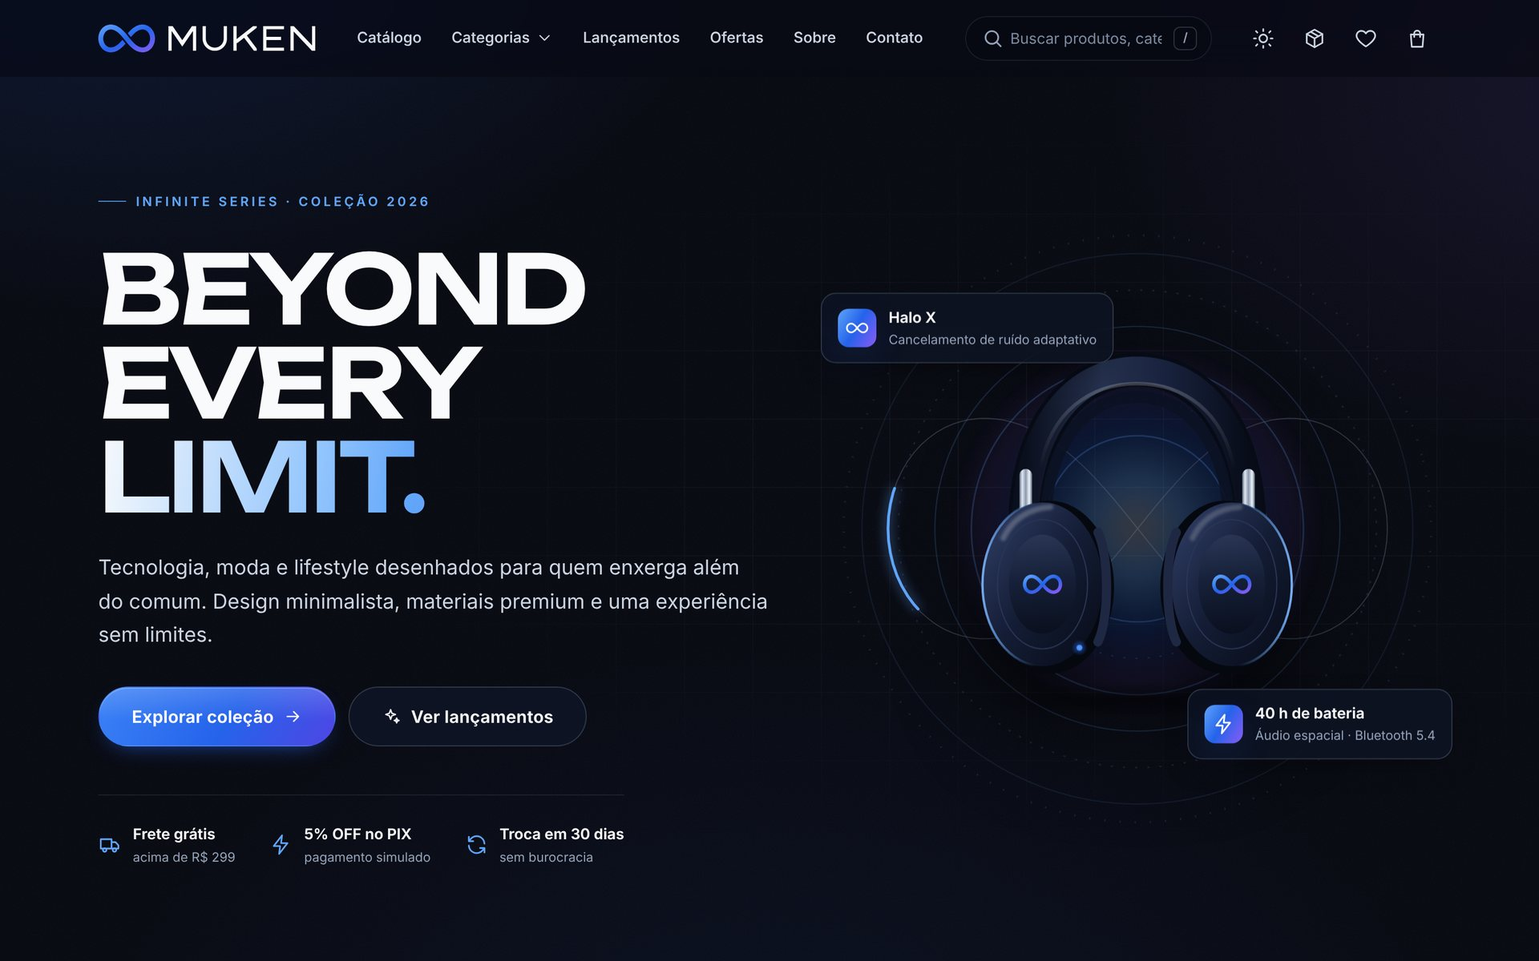
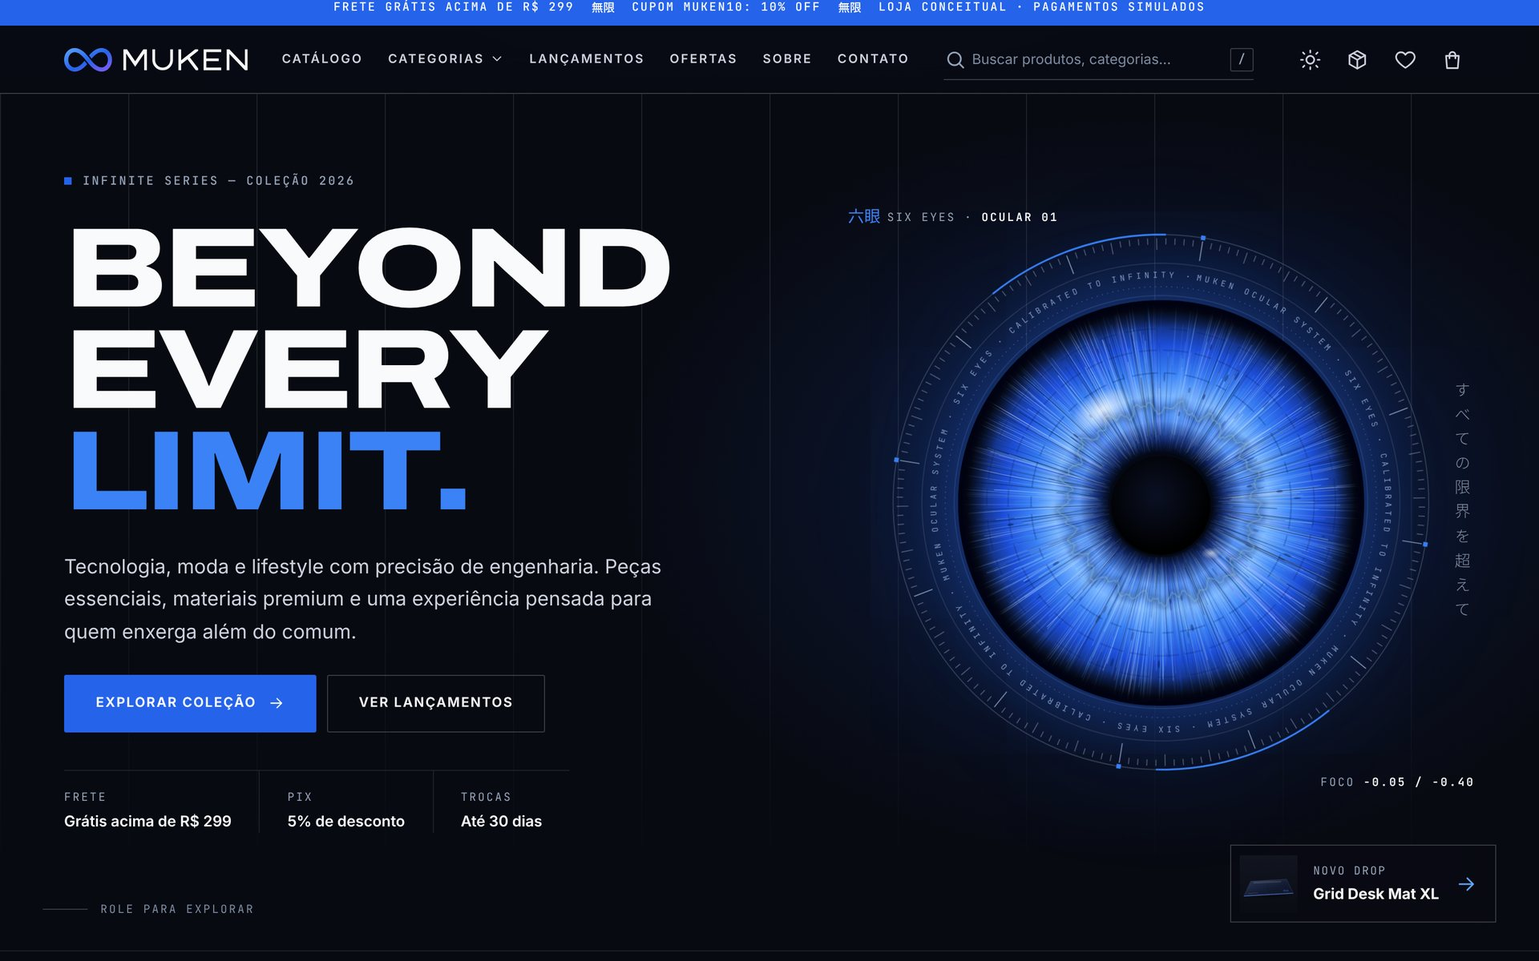
Update documentation after redesign
- Relatório: capa preenchida com os dados acadêmicos (CEUB, Engenharia
  de Software, Desenvolvimento de Interfaces), seção de design reescrita
  com a nova direção de arte, dificuldades reais do redesign, métricas
  medidas de novo, reflexão pessoal e datas de acesso das referências.
- Histórico de prompts: registros 14 (dados do relatório) e 15 (redesign).
- README: identidade visual atualizada e informações acadêmicas.
- Capturas de tela refeitas no novo visual, mais a promoção
  "Vazio Ilimitado".

Claude-Session: https://claude.ai/code/session_01JWsDhQumma8NqJHcDWpjRP

diff --git a/docs/historico-prompts.md b/docs/historico-prompts.md
@@ -2,7 +2,7 @@
 
 **Projeto:** MUKEN STORE — E-commerce conceitual
 **Ferramenta de IA:** Claude Code (agente de programação da Anthropic), executado em ambiente remoto na nuvem
-**Aluno:** João Pedro Ribeiro
+**Autoria:** João Pedro Ribeiro
 **Período:** novembro de 2026
 
 ---
@@ -13,7 +13,7 @@ O desenvolvimento seguiu um fluxo real de *Vibe Coding*: um **prompt mestre** (r
 
 Por isso, em cada registro abaixo, o campo **“Prompt completo”** reproduz o **trecho exato do prompt mestre** que orientou aquela etapa. Os campos “Resumo da resposta da IA”, “Aplicação prática” e “Adaptações realizadas” descrevem o que de fato foi produzido e as decisões e correções reais, que podem ser conferidas no código e no histórico de commits do repositório.
 
-Também estão registradas as interações adicionais reais que ocorreram durante o processo (registros 12 e 13). Prompts feitos depois desta versão devem ser acrescentados na seção [Prompts adicionais](#prompts-adicionais).
+Também estão registradas as interações adicionais reais que ocorreram durante o processo (registros 12 a 15). Prompts feitos depois desta versão devem ser acrescentados na seção [Prompts adicionais](#prompts-adicionais).
 
 | # | Etapa | Commit relacionado |
 | --- | --- | --- |
@@ -30,6 +30,8 @@ Também estão registradas as interações adicionais reais que ocorreram durant
 | 11 | Documentação e publicação | `Create project documentation` / `Final adjustments and deployment` |
 | 12 | Interação: “por que parou?” | — |
 | 13 | Publicação no GitHub Pages | `Update documentation after deployment` |
+| 14 | Dados do relatório | `Update documentation after redesign` |
+| 15 | Redesign da interface | `Redesign interface with Six Eyes hero and editorial grid` |
 
 ---
 
@@ -53,7 +55,7 @@ Também estão registradas as interações adicionais reais que ocorreram durant
 - Arquitetura **SPA com roteador por hash** (`#/catalogo`, `#/produto/ID`): funciona no GitHub Pages sem configuração de servidor e mantém o `index.html` como único documento, como pede a estrutura.
 - Scripts clássicos com `defer` e um namespace global (`MK`), em vez de ES Modules, para que a loja funcione **também ao abrir o `index.html` direto do disco** (`file://`), onde módulos são bloqueados pelo navegador.
 - Além dos arquivos exigidos, foram criados `utils.js`, `ui.js`, `orders.js` e `pages.js` para não concentrar lógica demais em um só arquivo, além de `404.html` (exigido pelo GitHub Pages) e `assets/fonts/`.
-- A tentativa de criar o repositório remoto pela ferramenta de linha de comando foi **recusada pelo ambiente** (a sessão só tem acesso a repositórios já existentes). O repositório vazio precisa ser criado pelo aluno no GitHub.
+- A tentativa de criar o repositório remoto pela ferramenta de linha de comando foi **recusada pelo ambiente** (a sessão só tem acesso a repositórios já existentes). O repositório vazio precisou ser criado manualmente, pela própria conta no GitHub.
 
 ---
 
@@ -267,8 +269,8 @@ Também estão registradas as interações adicionais reais que ocorreram durant
 **Aplicação prática:** `README.md`, `docs/`; commits `Create project documentation` e `Final adjustments and deployment`.
 
 **Adaptações realizadas:**
-- Informações que dependem do aluno (instituição, curso, disciplina, professor, reflexões pessoais) ficaram marcadas como **[preencher]** no relatório.
-- A publicação exigiu ações do aluno no GitHub, pois o ambiente do agente não tem permissão para criar repositórios novos (ver registro 13).
+- Informações pessoais e acadêmicas (instituição, curso, disciplina, docente, reflexões pessoais) ficaram marcadas como **[preencher]** no relatório nesta etapa e foram preenchidas depois (registro 14).
+- A publicação exigiu ações manuais no GitHub, pela própria conta, pois o ambiente do agente não tem permissão para criar repositórios novos (ver registro 13).
 
 ---
 
@@ -292,7 +294,7 @@ Também estão registradas as interações adicionais reais que ocorreram durant
 
 **Objetivo:** colocar a loja no ar no GitHub Pages e verificar o funcionamento após a publicação.
 
-**Prompts completos (sequência real de mensagens do aluno):**
+**Prompts completos (sequência real de mensagens enviadas ao agente):**
 
 > criei o repositorio
 
@@ -309,7 +311,7 @@ Também estão registradas as interações adicionais reais que ocorreram durant
 **Resumo da resposta da IA:**
 - Com o repositório criado, o agente o conectou à sessão, mas o envio foi recusado (HTTP 403): o aplicativo do Claude no GitHub não tinha permissão para esse repositório. O agente explicou como liberar o acesso ou enviar pelo próprio computador.
 - Diante do erro do GitHub Desktop, explicou que “Publish repository” tenta criar um repositório novo e orientou a configurar o endereço remoto em *Repository settings → Remote*.
-- Como o domínio `github.io` estava bloqueado na rede do ambiente, propôs (e o aluno aprovou) um ambiente com acesso apenas a `jpribeiro011.github.io` e `viacep.com.br`.
+- Como o domínio `github.io` estava bloqueado na rede do ambiente, propôs (e a proposta foi aprovada) um ambiente com acesso apenas a `jpribeiro011.github.io` e `viacep.com.br`.
 - Diante do 404, inspecionou o repositório remoto. Os arquivos tinham sido enviados pelo upload do site do GitHub dentro de uma subpasta `muken-store/`: o `index.html` não estava na raiz e o histórico organizado tinha sido trocado por 3 commits genéricos. A loja funcionava em `/muken-store/muken-store/`.
 - Com a autorização (“pode substituir”) e a permissão do aplicativo concedida (“pronto”), substituiu o conteúdo pelo histórico original usando `git push --force-with-lease`, que só sobrescreve se o remoto ainda estiver no estado inspecionado. O site entrou no ar em cerca de 1,5 minuto.
 - Por fim, executou a suíte de testes **contra o site publicado: 47 de 47 aprovados**. Também conferiu os tipos dos arquivos servidos e a página 404 personalizada.
@@ -317,14 +319,78 @@ Também estão registradas as interações adicionais reais que ocorreram durant
 **Aplicação prática:** repositório `JpRibeiro011/muken-store` com os commits organizados; site em https://jpribeiro011.github.io/muken-store/; suíte de testes com a opção `MUKEN_URL` para testar o site publicado.
 
 **Adaptações realizadas:**
-- O envio que substituiu o conteúdo do repositório só foi feito após autorização explícita do aluno, e de forma condicionada ao estado inspecionado.
+- O envio que substituiu o conteúdo do repositório só foi feito após autorização explícita, e de forma condicionada ao estado inspecionado.
 - O relatório (seção 11) registra essas dificuldades de publicação. Os repositórios extras criados nas tentativas (`muken` e `muken-store-1`) não foram alterados pelo agente.
+
+---
+
+## 14. Dados do relatório
+
+**Objetivo:** saber o que o relatório técnico pede e preenchê-lo com os dados acadêmicos.
+
+**Prompts completos (sequência real de mensagens):**
+
+> preenche o relatorio com os meus dados, e qual é o relatorio? quais são as informaçoes que pede
+
+```text
+Instituição de ensino:  Centro Universitário de Brasília (CEUB)
+Curso: Engenharia de Software
+Disciplina: Desenvolvimento de Interfaces - Turma B - 0726 - Asa Norte - Noturno
+Professor(a): Adriana
+Cidade: Brasilia
+Data de entrega: 25/11/2026      as reflexões voce pode fazer do jeito que achar melhor, mais lembrando que tem que ser do jeito que eu falo, mais humanizado
+```
+
+**Resumo da resposta da IA:**
+- Explicou que o relatório é o arquivo `docs/relatorio.md` (item 11 do enunciado), com as 16 seções exigidas já escritas, faltando só os campos que dependiam de informações pessoais.
+- Listou o que faltava (instituição, curso, disciplina, docente, cidade, data de entrega, reflexão pessoal e, opcionalmente, dificuldades próprias) e perguntou sobre as datas de acesso das referências e sobre algum modelo de documento da disciplina.
+- Com os dados recebidos, preencheu a capa do relatório e a tabela acadêmica do README.
+- Escreveu a reflexão pessoal (seção 14) e o parágrafo “Do meu lado” (seção 11) em primeira pessoa e em tom de conversa, como pedido, a partir de fatos reais do processo: a pergunta “por que parou?”, os erros de publicação, a crítica ao visual genérico e o redesign.
+- O pedido de redesign (registro 15) chegou logo em seguida e interrompeu esta etapa, que foi concluída junto com a documentação do redesign.
+
+**Aplicação prática:** `docs/relatorio.md` (capa, seções 11, 14 e 15) e `README.md` (informações acadêmicas); commit `Update documentation after redesign`.
+
+**Adaptações realizadas:**
+- A pedido, a reflexão pessoal foi redigida pela IA com base nos acontecimentos reais do projeto, para ser revisada antes da entrega.
+- Como não houve resposta específica sobre as datas de acesso das referências, foi usada a data em que o relatório foi preenchido (7 de novembro de 2026).
+- O relatório e este histórico passaram a usar formas neutras (“autoria”, “docente”) nos trechos que antes indicavam campos a preencher.
+
+---
+
+## 15. Redesign: “achei ele muito genérico”
+
+**Objetivo:** deixar a interface com cara de produto profissional, menos genérica, mantendo a referência ao Satoru Gojo.
+
+**Prompts completos (sequência real de mensagens):**
+
+> quero que melhor o design tambem, achei ele muito generico, melhore ele para ficar melhor e mais com cara de profissional, mantendo a referencia ao satoro gojo
+
+> continue
+
+*(A mensagem “continue” foi enviada no dia seguinte, depois que a sessão atingiu o limite de uso da ferramenta.)*
+
+**Resumo da resposta da IA:**
+- **Diagnóstico:** apontou o que deixava o visual genérico: cantos arredondados, botões em pílula, degradês e brilhos em quase todo lugar, uma fonte de títulos arredondada (Unbounded) e um hero de “produto sobre anéis”, comum em templates.
+- **Direção:** propôs uma linguagem de luxo técnico com minimalismo editorial japonês, traduzindo a referência ao Gojo só em conceitos: Seis Olhos (六眼), Infinito (無限), Vazio Ilimitado (無量空処) e o azul (蒼).
+- **Sistema visual:** novas fontes hospedadas no projeto (Archivo Expanded, JetBrains Mono e um subconjunto de 11 KB da Noto Sans JP), tokens revistos, cantos de 2 px, grades de linhas finas, botões retangulares em caixa alta e selos e preços em fonte monoespaçada.
+- **Página inicial:** barra de avisos; hero com uma íris original gerada por código (SVG procedural) dentro de um anel técnico, que acompanha o cursor; seções numeradas; promoção “Vazio Ilimitado” com campo de estrelas; manifesto com pilares em japonês; e o logotipo em escala monumental no rodapé. O card de produto, a página Sobre, a 404 do GitHub Pages e a imagem de compartilhamento também foram refeitos.
+- **Validação:** testes ponta a ponta (47 de 47 no servidor local e, depois da publicação, 47 de 47 contra o site no ar), axe-core (0 violações em 13 rotas × 2 temas e com os diálogos abertos), auditoria de largura em 13 rotas × 6 larguras e revisão visual em desktop, tablet e celular. Os problemas encontrados no caminho (contraste, sobreposições, estouros e erros de CORS em `file://`) estão no relatório, seção 11, item 11.
+- **Interrupção:** a sessão atingiu o limite de uso enquanto o histórico da conversa era compactado. Com o “continue”, o trabalho foi retomado de onde parou, porque as alterações ainda não enviadas continuavam no ambiente.
+- **Verificação no ar:** depois do envio, uma captura do site publicado em 1280 px mostrou o campo de busca do cabeçalho espremido, por causa de uma regra antiga do menu. A correção foi enviada em um commit separado e o site foi testado de novo.
+
+**Aplicação prática:** `css/` (os três arquivos), `js/pages.js`, `js/ui.js`, `index.html`, `404.html`, `assets/fonts/`, `assets/images/six-eyes-iris.svg`, `assets/images/void-stars.svg`, `assets/images/og-image.png` e as 17 capturas de `docs/screenshots/`; commits `Redesign interface with Six Eyes hero and editorial grid`, `Fix header search width on notebook screens` e `Update documentation after redesign`.
+
+**Adaptações realizadas:**
+- Os seletores usados pelos testes automatizados foram mantidos, e o título do hero continua com o texto “BEYOND EVERY LIMIT.”.
+- O olho é decorativo para leitores de tela, fica parado com “reduzir movimento” e pausa quando sai da tela.
+- O hero continua escuro no tema claro, porque a íris luminosa depende do contraste com o fundo.
+- A fonte japonesa só tem os caracteres usados; trocar ou acrescentar textos em japonês exige gerar o subconjunto de novo.
 
 ---
 
 ## Prompts adicionais
 
-> Espaço para o aluno registrar novos prompts feitos após esta versão (correções, ajustes de conteúdo, publicação etc.), seguindo o mesmo modelo: **Objetivo · Prompt completo · Resumo da resposta da IA · Aplicação prática · Adaptações realizadas**.
+> Espaço para registrar novos prompts feitos após esta versão (correções, ajustes de conteúdo, publicação etc.), seguindo o mesmo modelo: **Objetivo · Prompt completo · Resumo da resposta da IA · Aplicação prática · Adaptações realizadas**.
 
 ---
 

diff --git a/README.md b/README.md
@@ -21,7 +21,7 @@ desenvolvido com HTML5, CSS3 e JavaScript Vanilla usando a metodologia **Vibe Co
 ![LocalStorage](https://img.shields.io/badge/LocalStorage-2563EB?style=flat-square)
 ![GitHub Pages](https://img.shields.io/badge/GitHub_Pages-222222?style=flat-square&logo=github&logoColor=white)
 
-<img src="docs/screenshots/01-home-hero.jpg" alt="Página inicial da MUKEN STORE com o slogan BEYOND EVERY LIMIT." width="100%">
+<img src="docs/screenshots/01-home-hero.jpg" alt="Página inicial da MUKEN STORE: slogan BEYOND EVERY LIMIT. ao lado de uma íris azul cercada por um anel técnico" width="100%">
 
 </div>
 
@@ -46,7 +46,7 @@ desenvolvido com HTML5, CSS3 e JavaScript Vanilla usando a metodologia **Vibe Co
 
 ## Sobre o projeto
 
-A **MUKEN STORE** é uma loja virtual conceitual com identidade visual própria, premium, minimalista e futurista. O nome **MUKEN** faz referência ao conceito de **infinito** presente no universo de *Jujutsu Kaisen* (associado ao personagem Satoru Gojo). Essa inspiração foi traduzida em uma identidade **totalmente original**: nenhum personagem, logotipo, imagem ou arte oficial da franquia foi utilizado.
+A **MUKEN STORE** é uma loja virtual conceitual com identidade visual própria, premium e minimalista, de linguagem editorial e técnica. O nome **MUKEN** faz referência ao conceito de **infinito** presente no universo de *Jujutsu Kaisen* (associado ao personagem Satoru Gojo). Essa inspiração foi traduzida em uma identidade **totalmente original**: nenhum personagem, logotipo, imagem ou arte oficial da franquia foi utilizado.
 
 A loja é um site estático (sem backend) e **todas as funcionalidades são reais**: catálogo, pesquisa, filtros combinados, carrinho com cálculos e controle de estoque, cupons, checkout com validação, pagamentos simulados, histórico de pedidos, favoritos e tema claro/escuro, com persistência em LocalStorage.
 
@@ -60,13 +60,14 @@ Desenvolver um e-commerce conceitual funcional, bem documentado e com aparência
 
 | Conceito | Tradução visual |
 | --- | --- |
-| **Infinito** | Símbolo de infinito entrelaçado, com um vazado real que cria profundidade |
-| **Seis Olhos / visão** | Azul elétrico e azul luminoso como cores de destaque, brilhos e contornos de luz |
-| **Vazio Ilimitado** | Fundos quase pretos, anéis concêntricos, grade em perspectiva e gradientes sutis |
-| **Energia** | Luz percorrendo o infinito no hero, faixa de rolagem infinita e microinterações |
+| **Infinito (無限)** | Símbolo de infinito entrelaçado, faixa de rolagem infinita e marca-d'água tipográfica 無限 |
+| **Seis Olhos (六眼)** | Hero com uma íris azul original, gerada por código, que acompanha o cursor; azul elétrico como cor de destaque |
+| **Vazio Ilimitado (無量空処)** | Promoção da semana sobre um campo de estrelas e um horizonte escuro com halo azul |
+| **Energia (蒼)** | Movimento contínuo e preciso: anel técnico em rotação lenta, contagem regressiva e microinterações |
 
 **Paleta:** `#080A12` preto profundo · `#10182B` azul marinho · `#2563EB` azul elétrico · `#60A5FA` azul luminoso · `#F8FAFC` branco gelo · `#94A3B8` cinza · `#8B5CF6` roxo de destaque.
-**Tipografia:** Unbounded (títulos) e Inter (textos), hospedadas no próprio projeto (licença SIL OFL).
+**Tipografia:** Archivo Expanded (títulos), Inter (textos), JetBrains Mono (rótulos técnicos e preços) e Noto Sans JP (subconjunto só com os caracteres japoneses usados), todas hospedadas no próprio projeto (licença SIL OFL).
+**Linguagem visual:** cantos retos, grades de linhas finas, seções numeradas, rótulos monoespaçados e azul reservado para ação e destaque. A referência ao Satoru Gojo aparece só em conceitos: nenhum personagem, logotipo ou arte oficial é usado.
 **Logotipo:** versões horizontais para fundo escuro e claro, símbolo isolado e favicon, em [`assets/logo/`](assets/logo) e [`assets/icons/`](assets/icons).
 
 ## Tecnologias utilizadas
@@ -77,7 +78,7 @@ Desenvolver um e-commerce conceitual funcional, bem documentado e com aparência
 | **CSS3** | Design tokens com variáveis, Grid/Flexbox, temas claro e escuro, animações, `@media` |
 | **JavaScript Vanilla** | Roteador SPA por hash, componentes, regras de negócio, validações, eventos |
 | **LocalStorage** | Carrinho, cupom, favoritos, pedidos, estoque, tema, perfil, mensagens |
-| **SVG** | Logotipo, ícones e 20 ilustrações de produtos originais |
+| **SVG** | Logotipo, ícones, 20 ilustrações de produtos, íris do hero e campo de estrelas (todos originais) |
 | **Git / GitHub** | Versionamento com commits organizados por etapa |
 | **GitHub Pages** | Hospedagem estática gratuita |
 | **Playwright + axe-core** | Testes automatizados e auditoria de acessibilidade (opcionais, fora do site) |
@@ -87,7 +88,7 @@ Nenhum framework (React, Vue, Angular etc.) foi utilizado.
 ## Funcionalidades
 
 **Loja e catálogo**
-- Página inicial com hero, faixa de benefícios infinita, categorias, destaques, oferta com contagem regressiva real, carrossel de lançamentos, ranking de mais vendidos, manifesto e “vistos recentemente”.
+- Página inicial com barra de avisos, hero “Seis Olhos” (íris interativa), faixa de benefícios infinita, categorias, destaques, promoção “Vazio Ilimitado” com contagem regressiva real, carrossel de lançamentos, ranking de mais vendidos, manifesto e “vistos recentemente”.
 - 20 produtos fictícios em 4 categorias, cada um com ID, nome, categoria, descrição, preço, preço promocional, imagem, estoque, avaliação e disponibilidade.
 - **Pesquisa** por nome sem diferenciar acentos/maiúsculas, com sugestões em tempo real (setas + Enter).
 - **Filtros simultâneos:** categoria, faixa de preço, promoção, lançamentos e disponibilidade; **ordenação** por menor preço, maior preço, A–Z, Z–A, avaliação, mais vendidos e lançamentos. O estado fica na URL (links compartilháveis).
@@ -104,15 +105,17 @@ Nenhum framework (React, Vue, Angular etc.) foi utilizado.
 
 **Experiência e extras**
 - Favoritos persistentes, tema claro/escuro (escuro é o padrão), sincronização entre abas.
-- Notificações personalizadas, animações de entrada, efeitos de profundidade (parallax), botão “voltar ao topo”.
+- Notificações personalizadas, animações de entrada, olho interativo no hero (fica parado quando o sistema pede “reduzir movimento”), botão “voltar ao topo”.
 - Páginas Sobre (identidade visual com paleta copiável), Contato (formulário validado com protocolo e FAQ), Política de Privacidade (com exclusão real dos dados do navegador) e 404.
 - Acessibilidade: navegação completa por teclado, foco gerenciado, ARIA, contraste AA nos dois temas, `prefers-reduced-motion`.
 - Responsivo de 320 px a telas grandes; funciona também abrindo o `index.html` diretamente (`file://`).
 
 ## Capturas de tela
 
-| Página inicial (tema claro) | Catálogo com filtros simultâneos |
+| Promoção “Vazio Ilimitado” | Categorias |
 | --- | --- |
+| ![Promoção Vazio Ilimitado](docs/screenshots/17-promocao-vazio-ilimitado.jpg) | ![Categorias](docs/screenshots/03-home-categorias.jpg) |
+| **Página inicial (tema claro)** | **Catálogo com filtros simultâneos** |
 | ![Tema claro](docs/screenshots/02-home-tema-claro.jpg) | ![Catálogo](docs/screenshots/04-catalogo-filtros.jpg) |
 | **Detalhes do produto** | **Visualização rápida** |
 | ![Produto](docs/screenshots/05-detalhes-produto.jpg) | ![Visualização rápida](docs/screenshots/06-visualizacao-rapida.jpg) |
@@ -153,10 +156,10 @@ muken-store/
 │   ├── pages.js            # início, produto, sobre, contato, privacidade, 404
 │   └── app.js              # roteador, tema, cabeçalho, inicialização
 ├── assets/
-│   ├── images/             # ilustrações dos produtos e imagem de compartilhamento
+│   ├── images/             # produtos, íris do hero, estrelas e imagem de compartilhamento
 │   ├── icons/              # favicons e ícones de aplicativo
 │   ├── logo/               # logotipos (escuro, claro, símbolo)
-│   └── fonts/              # Inter e Unbounded (woff2)
+│   └── fonts/              # Inter, Archivo, JetBrains Mono e Noto Sans JP (woff2)
 ├── docs/
 │   ├── relatorio.md        # relatório técnico acadêmico
 │   ├── historico-prompts.md
@@ -250,23 +253,24 @@ O site é 100% estático, usa apenas caminhos relativos e um roteador por hash (
 - 🌐 **Loja publicada:** https://jpribeiro011.github.io/muken-store/
 - 📁 **Repositório:** https://github.com/JpRibeiro011/muken-store
 
-✅ **Publicação verificada:** a suíte de testes foi executada contra o próprio site publicado, com **47 de 47 testes aprovados**.
+✅ **Publicação verificada:** a suíte de testes foi executada contra o próprio site publicado, com **47 de 47 testes aprovados** na primeira versão e de novo depois do redesign (9 de novembro de 2026).
 
 ## Informações acadêmicas
 
 | | |
 | --- | --- |
-| **Aluno** | João Pedro Ribeiro |
-| **Instituição** | *[preencher]* |
-| **Curso / disciplina** | *[preencher]* |
-| **Professor(a)** | *[preencher]* |
+| **Autoria** | João Pedro Ribeiro |
+| **Instituição** | Centro Universitário de Brasília (CEUB) |
+| **Curso** | Engenharia de Software |
+| **Disciplina** | Desenvolvimento de Interfaces — Turma B (0726) · Asa Norte · Noturno |
+| **Docente** | Adriana |
+| **Entrega** | 25 de novembro de 2026 |
 | **Metodologia** | Vibe Coding (desenvolvimento assistido por IA) |
-| **Ano** | 2026 |
 
 O processo de desenvolvimento está documentado no [relatório técnico](docs/relatorio.md) e no [histórico de prompts](docs/historico-prompts.md).
 
 ---
 
 <div align="center">
-<sub>MUKEN STORE é uma marca conceitual criada para fins acadêmicos, sem vínculo com <i>Jujutsu Kaisen</i> ou seus detentores. As fontes Inter e Unbounded são distribuídas sob a SIL Open Font License.</sub>
+<sub>MUKEN STORE é uma marca conceitual criada para fins acadêmicos, sem vínculo com <i>Jujutsu Kaisen</i> ou seus detentores. As fontes Inter, Archivo, JetBrains Mono e Noto Sans JP são distribuídas sob a SIL Open Font License.</sub>
 </div>
